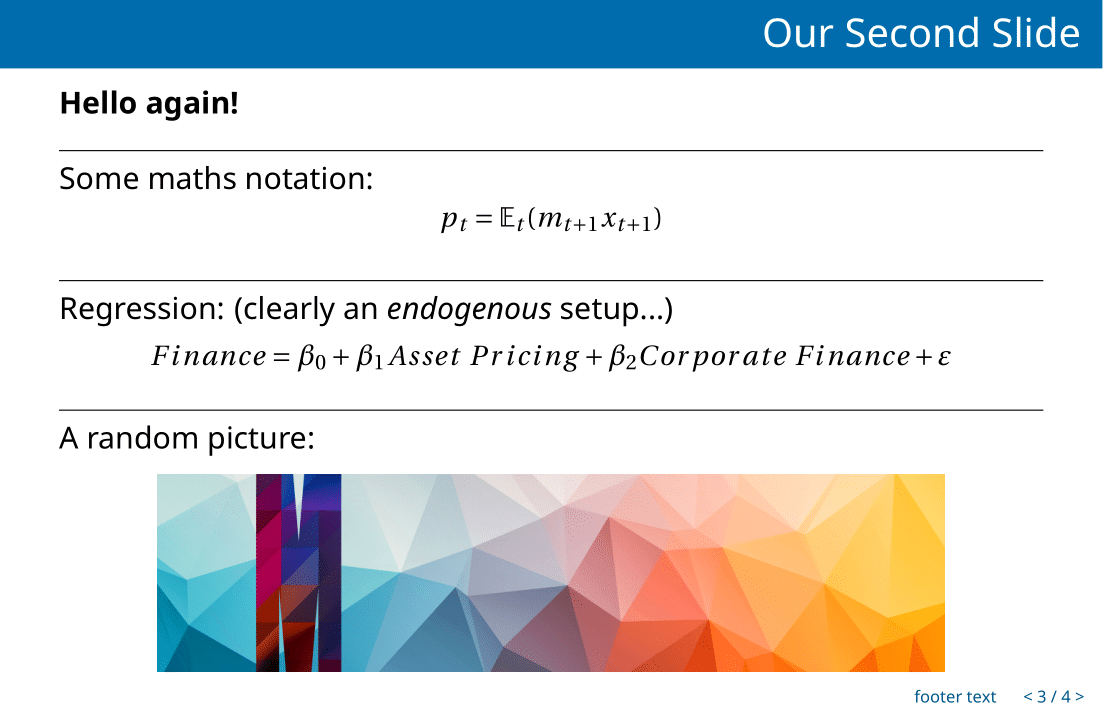
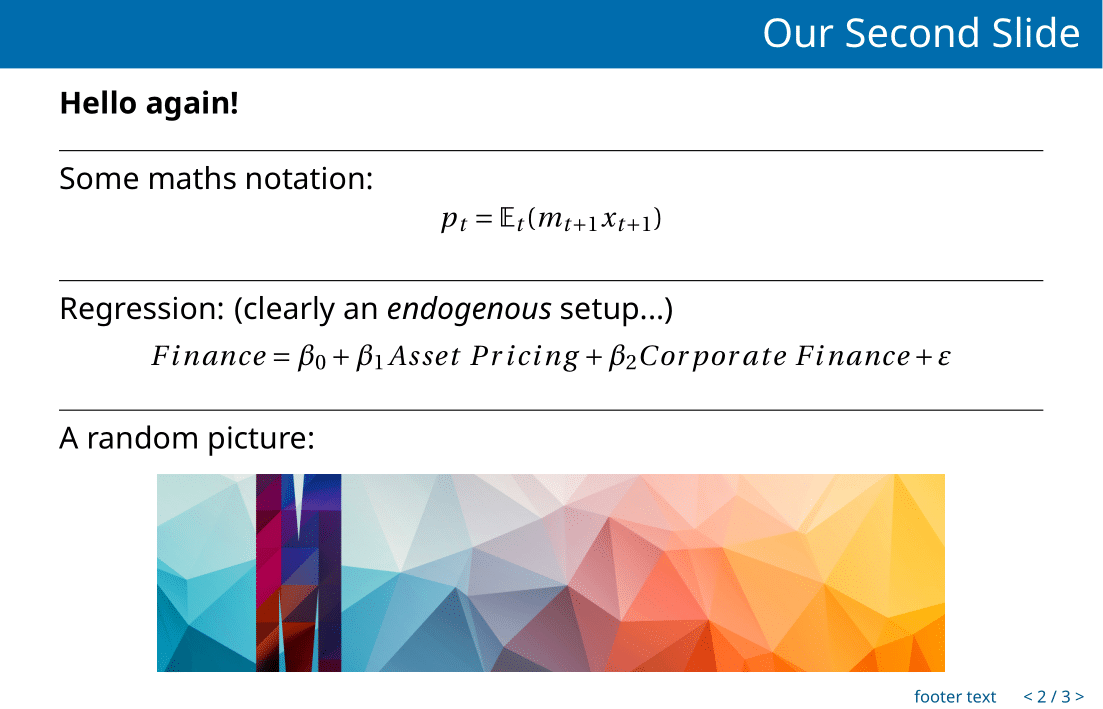
update example files

diff --git a/Example/example.tex b/Example/example.tex
@@ -17,7 +17,7 @@
 }
 
 {\setbeamertemplate{footline}{}
-\begin{frame}[t]
+\begin{frame}[t,noframenumbering]
   \centering\vspace{3ex}{\LARGE\textcolor{monashblue}{Agenda}}
   \tableofcontents
 \end{frame}
